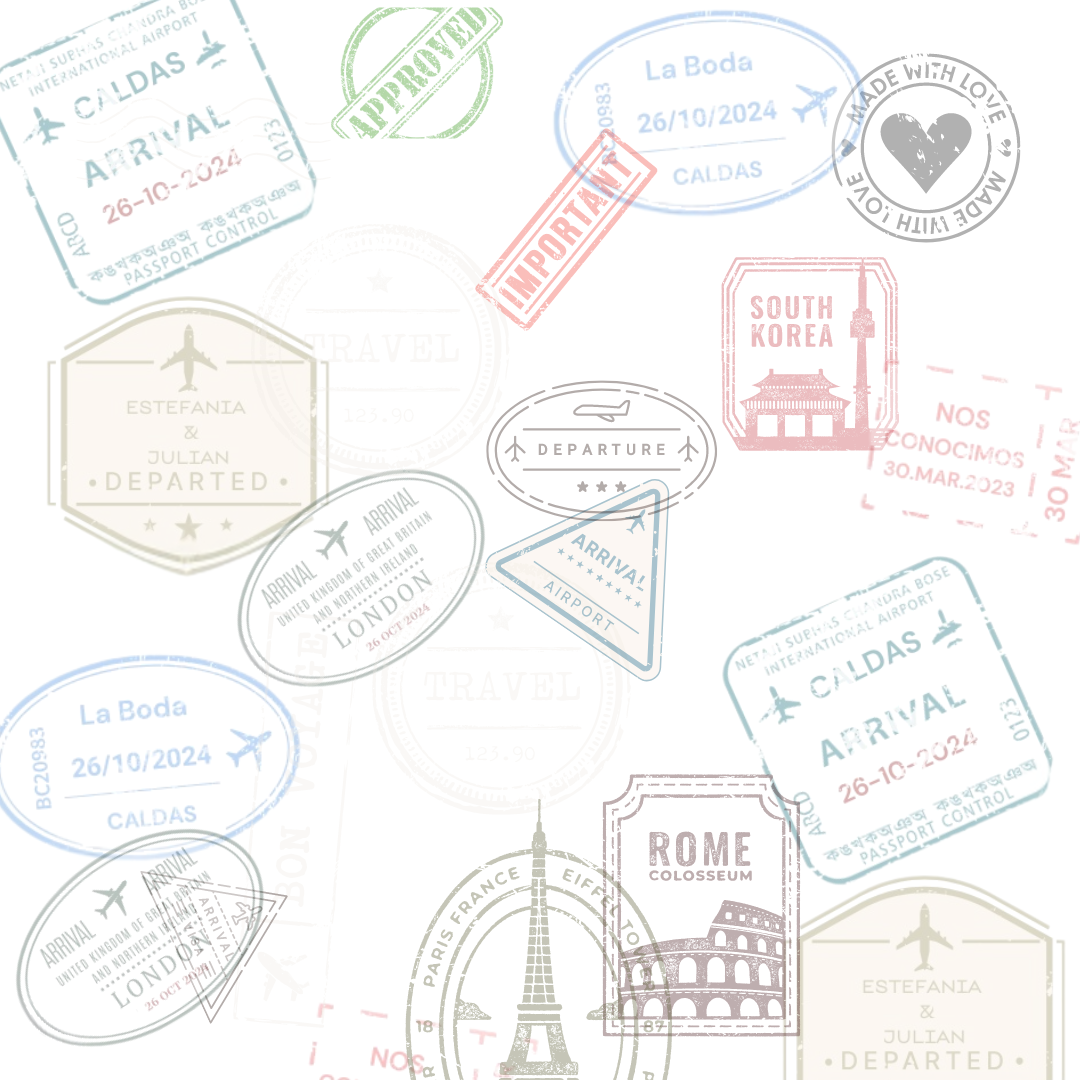
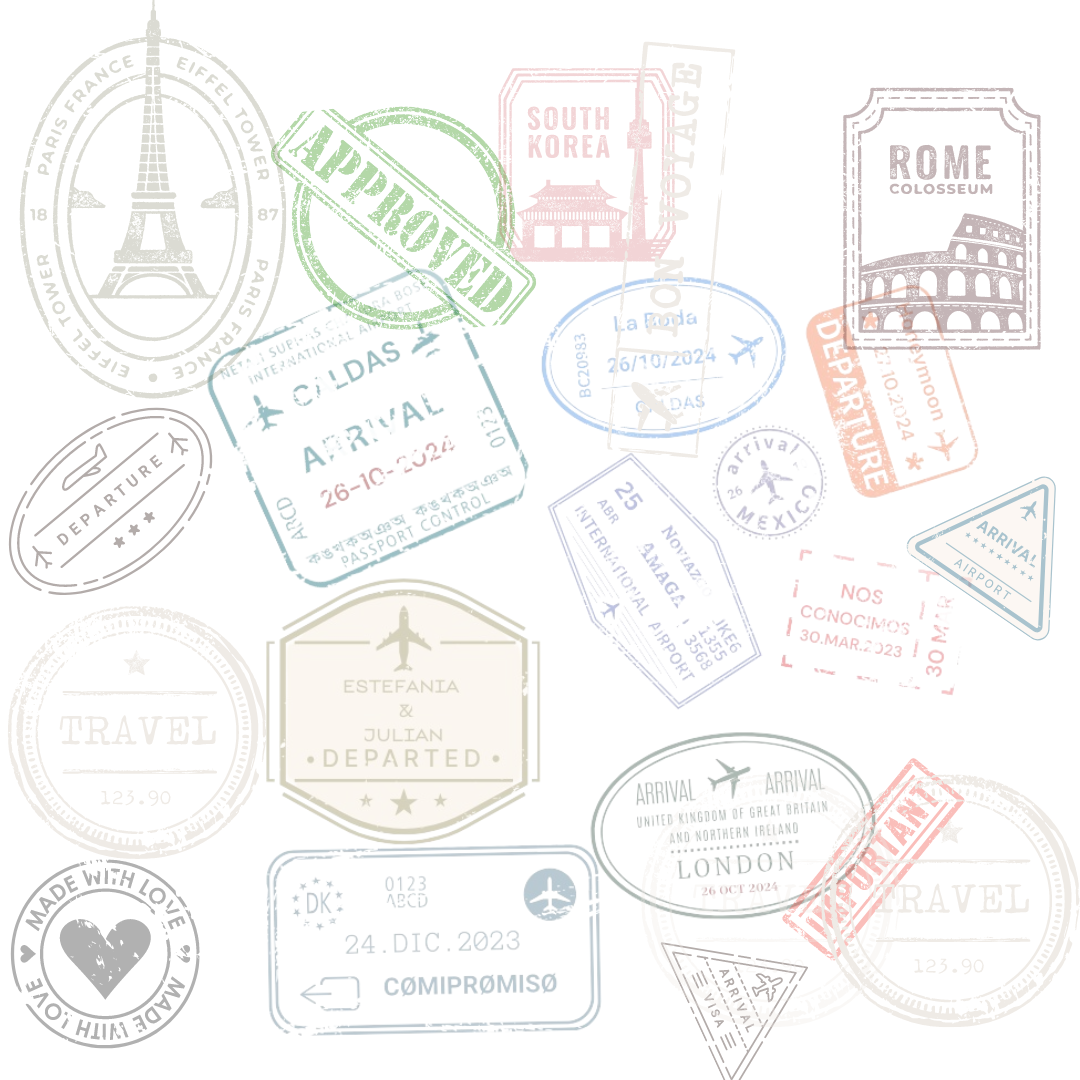
Update images

Changed region(s): [[0.0, 0.0, 1.0, 1.0], [0.3361, 0.3667, 0.3972, 0.3972]]

diff --git a/src/components/PassportWrapper.css b/src/components/PassportWrapper.css
@@ -51,7 +51,7 @@
 
 .passport__end {
   background-color: lightgray;
-  background-image: url(/public/images/background-sheet-passport.png);
+  background-image: url(/public/images/background-sheet-passport-2.png);
   background-size: cover;
 }
 
